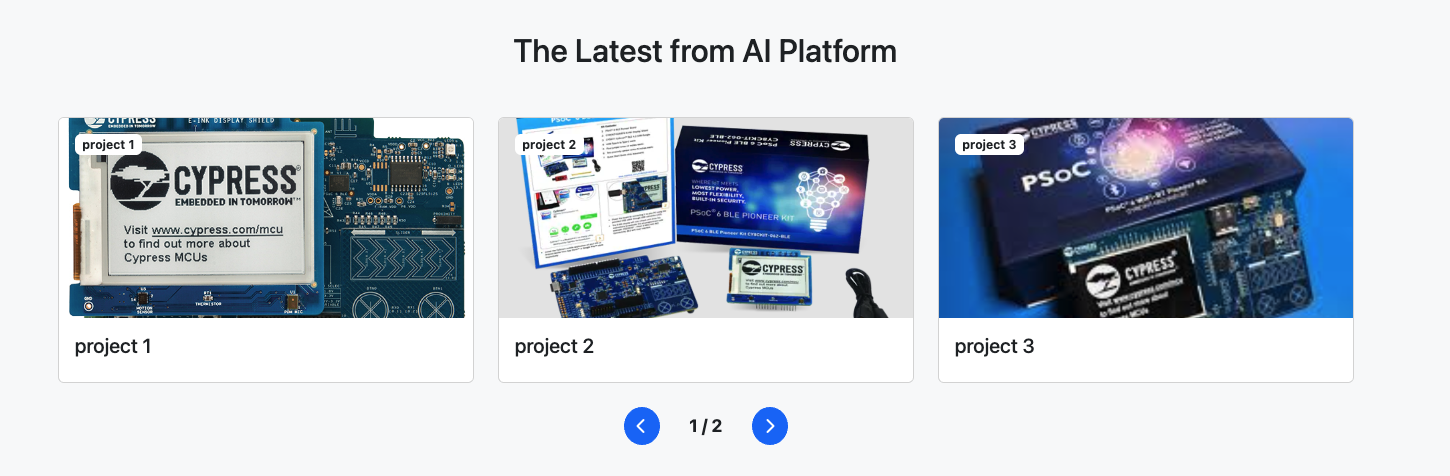
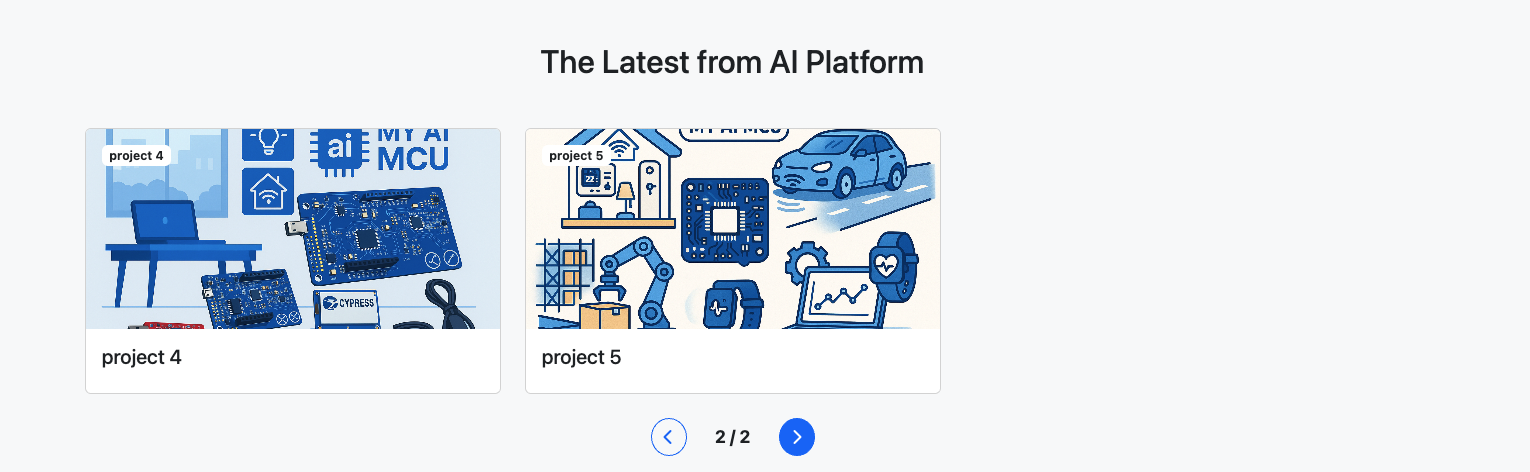
mouse cover effect
mouse cover effect

diff --git a/PKGalleryCards.js b/PKGalleryCards.js
@@ -22,6 +22,7 @@ class PKGalleryCards {
     for (let i = 0; i < pageCount; i++) {
       html += `<div class="carousel-item ${i === 0 ? 'active' : ''}">
         <div class="row g-4">`;
+
       for (let j = 0; j < this.pageSize; j++) {
         const item = this.items[i * this.pageSize + j];
         if (!item) continue;
@@ -32,7 +33,7 @@ class PKGalleryCards {
 
         html += `
           <div class="col-md-4">
-            <div class="card h-100">
+            <div class="card PKGalleryCards_card h-100">
               <div class="position-relative">
                 ${linkStart}
                 <img src="${item.img}" class="${imgClass}" alt="${item.title}">
@@ -45,24 +46,28 @@ class PKGalleryCards {
             </div>
           </div>`;
       }
+
       html += `</div></div>`;
     }
 
-    html += `</div>
-      <div class="text-center mt-4">
-        <div class="d-flex justify-content-center align-items-center gap-3">
-          <button class="btn btn-outline-primary rounded-circle" type="button"
-                  data-bs-target="#${carouselId}" data-bs-slide="prev">
-            <i class="fas fa-chevron-left"></i>
-          </button>
-          <span id="pk-gallery-page" class="pk-page-indicator">1 / ${pageCount}</span>
-          <button class="btn btn-primary rounded-circle" type="button"
-                  data-bs-target="#${carouselId}" data-bs-slide="next">
-            <i class="fas fa-chevron-right"></i>
-          </button>
+    html += `
+        </div>
+        <div class="text-center mt-4">
+          <div class="d-flex justify-content-center align-items-center gap-3">
+            <button class="btn btn-outline-primary rounded-circle" type="button"
+                    data-bs-target="#${carouselId}" data-bs-slide="prev">
+              <i class="fas fa-chevron-left"></i>
+            </button>
+            <span id="pk-gallery-page" class="pk-page-indicator">1 / ${pageCount}</span>
+            <button class="btn btn-primary rounded-circle" type="button"
+                    data-bs-target="#${carouselId}" data-bs-slide="next">
+              <i class="fas fa-chevron-right"></i>
+            </button>
+          </div>
         </div>
       </div>
-    </div></section>`;
+    </div>
+  </section>`;
 
     $(this.selector).html(html);
     this.pageCount = pageCount;

diff --git a/PKGalleryCards.css b/PKGalleryCards.css
@@ -1,18 +1,28 @@
-.pk-page-indicator {
-  font-weight: bold;
-  font-size: 1.1rem;
-  min-width: 60px;
-  text-align: center;
+.PKGalleryCards_card {
+  transition: transform 0.3s ease, box-shadow 0.3s ease;
 }
 
-.card .cover-image {
+.PKGalleryCards_card:hover {
+  transform: translateY(-8px) scale(1.02);
+  box-shadow: 0 12px 20px rgba(0, 0, 0, 0.15);
+  z-index: 2;
+}
+
+.card-img-top.cover-image {
   object-fit: cover;
   height: 200px;
   width: 100%;
 }
 
-.card .full-image {
-  height: auto;
-  width: 100%;
+.card-img-top.full-image {
   object-fit: contain;
+  width: 100%;
+  height: auto;
+}
+
+.pk-page-indicator {
+  font-weight: bold;
+  font-size: 1.1rem;
+  min-width: 60px;
+  text-align: center;
 }
